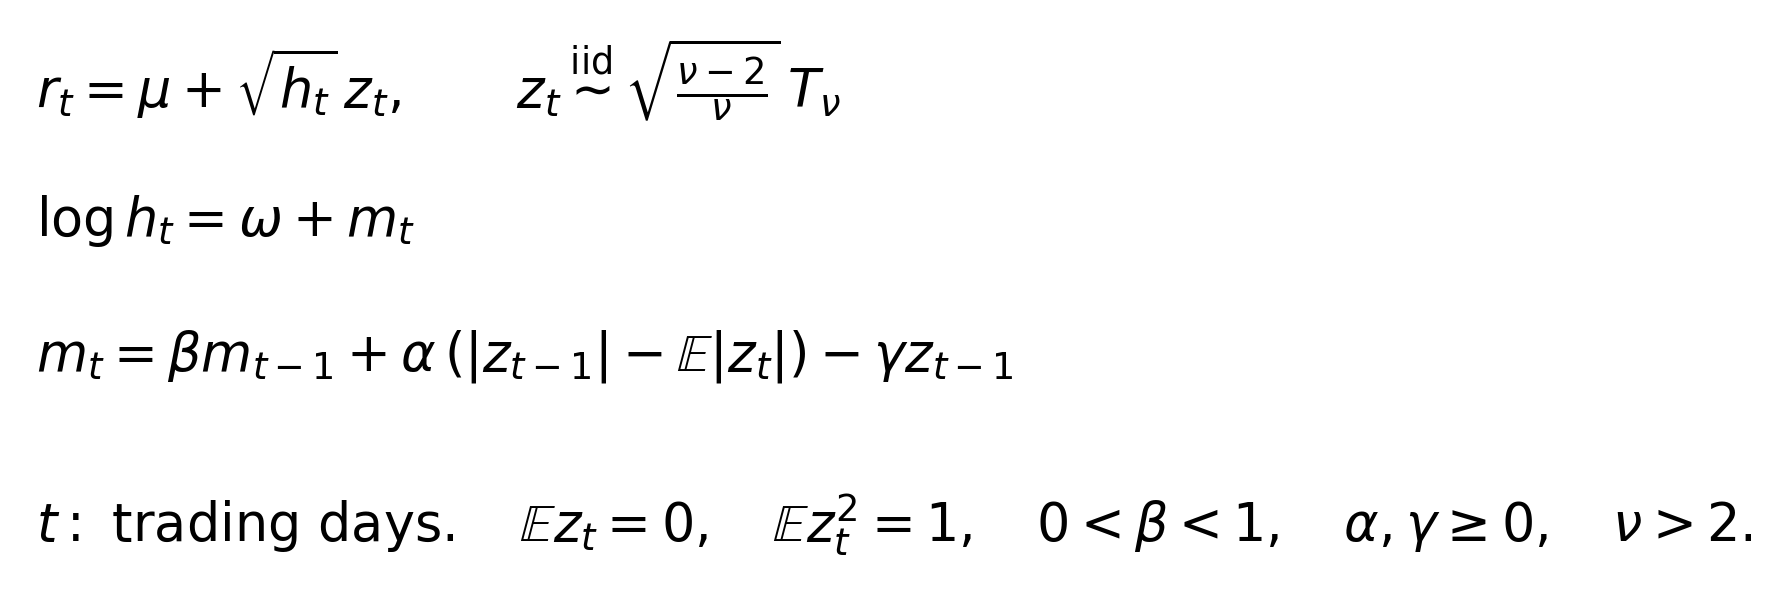
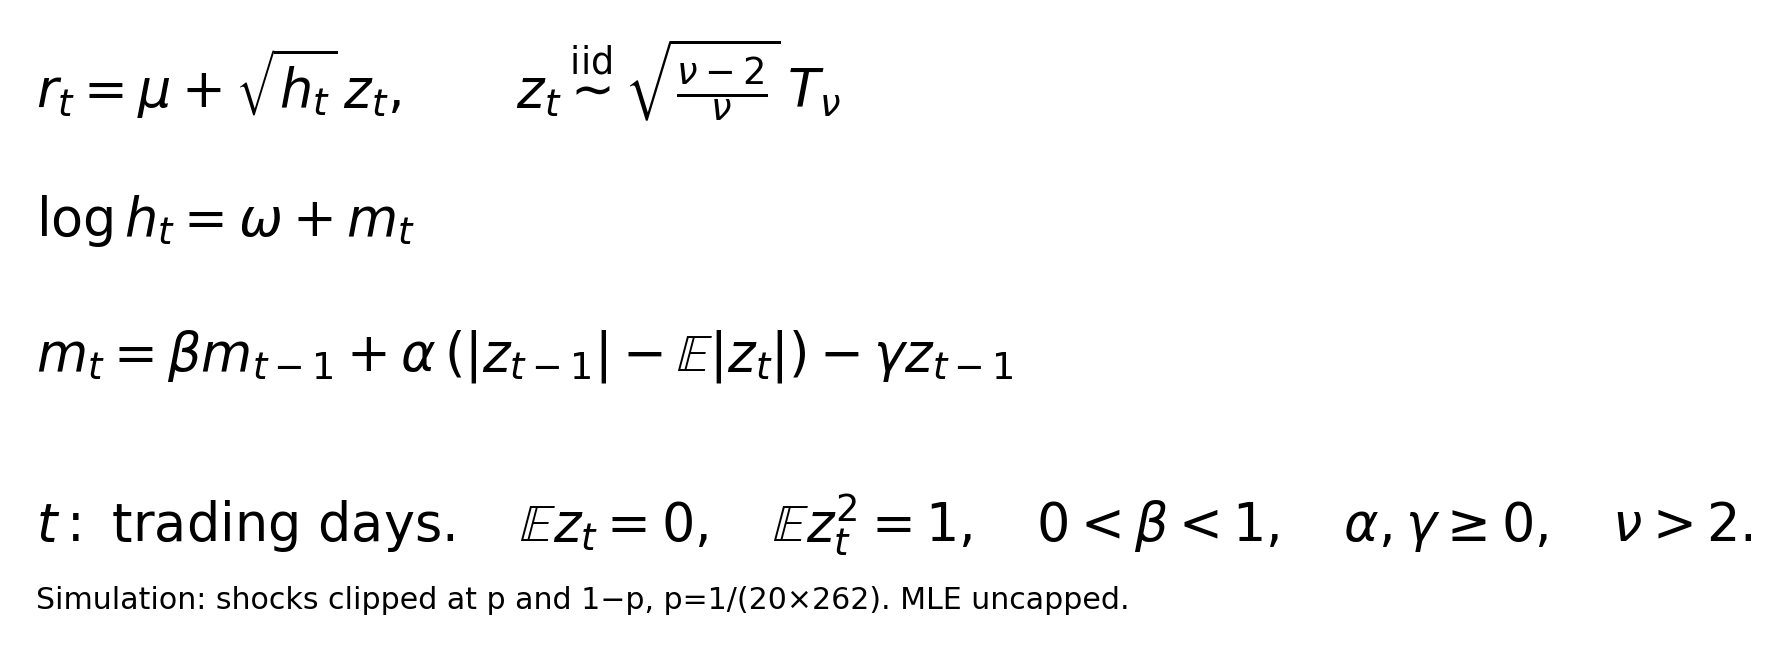
upd

diff --git a/play.py b/play.py
@@ -10,6 +10,7 @@ import matplotlib.pyplot as plt
 import numpy as np
 from numba import njit
 from scipy.optimize import minimize
+from scipy.stats import t
 
 N_TRIALS, N_SIM, SEED = 100, 100_000, 0
 NAMES = ("mu", "omega", "beta", "alpha", "gamma", "nu")
@@ -39,15 +40,16 @@ def loglik(q, r, warmup):
 
 
 @njit(cache=True)
-def simulate(q, z, burn):
+def simulate(q, z, burn, cap):
     mu, omega, beta, alpha, gamma, nu = q
     ea, _ = t_constants(nu)
     r, m = np.empty(len(z) - burn), 0.
     for i in range(len(z)):
         v = omega + m
         if not math.isfinite(v) or abs(v) > 700: raise FloatingPointError("nonfinite simulation scale")
-        if i >= burn: r[i - burn] = mu + math.exp(v / 2) * z[i]
-        m = beta * m + alpha * (abs(z[i]) - ea) - gamma * z[i]
+        shock = min(max(z[i], -cap), cap)
+        if i >= burn: r[i - burn] = mu + math.exp(v / 2) * shock
+        m = beta * m + alpha * (abs(shock) - ea) - gamma * shock
     return r
 
 
@@ -79,12 +81,13 @@ def main():
         if not fit.success: raise RuntimeError(f"MLE not converged: {fit.message}")
         fits.append(fit)
     q = min(fits, key=lambda f: f.fun).x
+    cap = t.ppf(1 - 1 / (20 * 262), q[5]) * np.sqrt((q[5] - 2) / q[5])
     burn = max(1000, math.ceil(math.log(1e-10) / math.log(q[2])))
     levels = moments(r)[1:]  # Fixed observed thresholds, lower tail at q25, upper at q50/q75.
 
     def sample(n, rng):
         z = rng.standard_t(q[5], n + burn) * np.sqrt((q[5] - 2) / q[5])
-        return moments(center + scale * simulate(q, z, burn), levels)
+        return moments(center + scale * simulate(q, z, burn, cap), levels)
 
     rng, real = np.random.default_rng(SEED + 1), moments(r, levels)
     trials = np.array([sample(len(r), rng) for _ in range(N_TRIALS)])
@@ -98,7 +101,7 @@ def main():
     raw[0], raw[1] = center + scale * q[0], q[1] + 2 * np.log(scale)
     print("Parameters (raw returns):", dict(zip(NAMES, raw.tolist())))
     for name, ratio, low, high in zip(STATS, ratios, lo, hi): print(f"{name:>4}: {ratio:.4f} [{low:.4f}, {high:.4f}]")
-    print("Sample mean only: t-EGARCH has no finite unconditional absolute mean for nonzero volatility shocks.")
+    print(f"Simulation shock cap: ±{cap:.4f}, p=1/(20×262) per tail, MLE uncapped")
     out = root / "results"
     out.mkdir(exist_ok=True)
     with (out / "moments.csv").open("w") as f:
@@ -126,6 +129,7 @@ def main():
         r"0<\beta<1,\quad \alpha,\gamma\geq0,\quad \nu>2.$"]
     fig = plt.figure(figsize=(12, 3.4), facecolor="white")
     for y, text in zip([.83, .62, .40, .12], formulas): fig.text(.04, y, text, fontsize=21)
+    fig.text(.04, .01, "Simulation: shocks clipped at p and 1−p, p=1/(20×262). MLE uncapped.", fontsize=12)
     fig.savefig(out / "model.png", dpi=180, bbox_inches="tight", pad_inches=.2)
     plt.close(fig)
 

diff --git a/README.md b/README.md
@@ -25,12 +25,15 @@ Overlapping 21-day log-return sums. Plot simulated/observed ratios for the mean 
 probabilities at fixed observed quantiles, P(R≤q25), P(R≥q50), P(R≥q75).
 Observed probabilities are measured from data, approximately 0.25, 0.5, 0.25.
 10–90% bands across 100 simulated histories of observed length, fitted parameters fixed.
-Point estimates from a separate 100,000-day simulation, no shock clipping.
+Point estimates from a separate 100,000-day simulation.
+Simulation clips standardized shocks at p and 1−p quantiles, p=1/(20×262) per tail,
+including burn-in and state updates. MLE and E|zₜ| centering use the uncapped Student-t.
+Clipped shocks are not rescaled to unit variance.
 
     moment_error = mean(((simulated-observed)/(trial_q90-trial_q10))**2)
 
-Student-t EGARCH has no finite unconditional absolute-return mean for nonzero α or γ.
-The displayed mean is a finite-sample diagnostic. Tail probabilities remain well defined.
+Uncapped Student-t EGARCH has no finite unconditional absolute-return mean for nonzero α or γ.
+The simulation cap makes simulated moments finite, diagnostics refer to this capped process.
 
 spy.csv is the stored SPY USD close series from bc-prices, SPY:ARCX/price/close,
 2004-12-31 to 2026-09-30, as used by garch/play.jl. No additional dividend adjustment.
